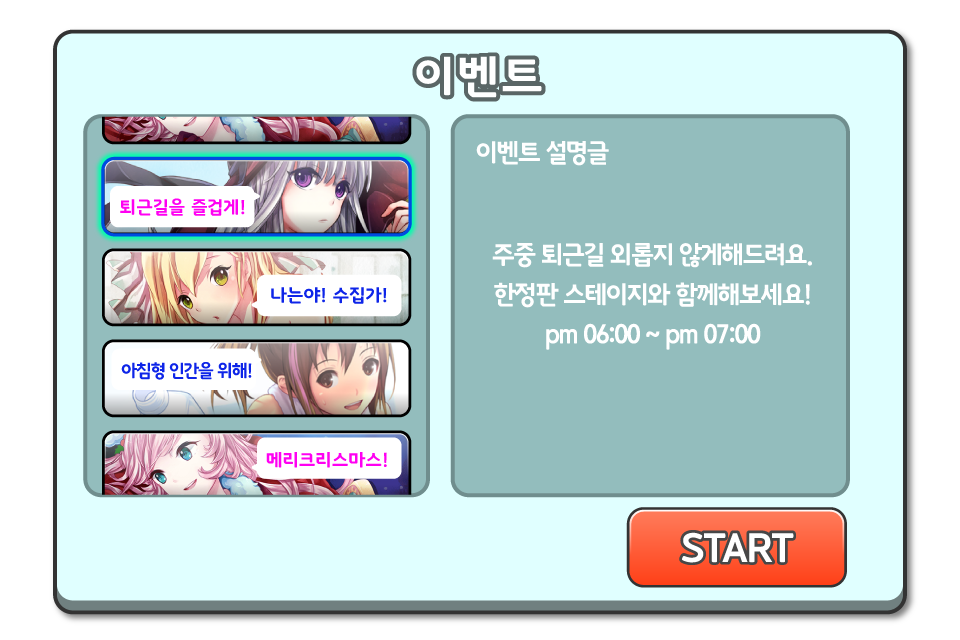
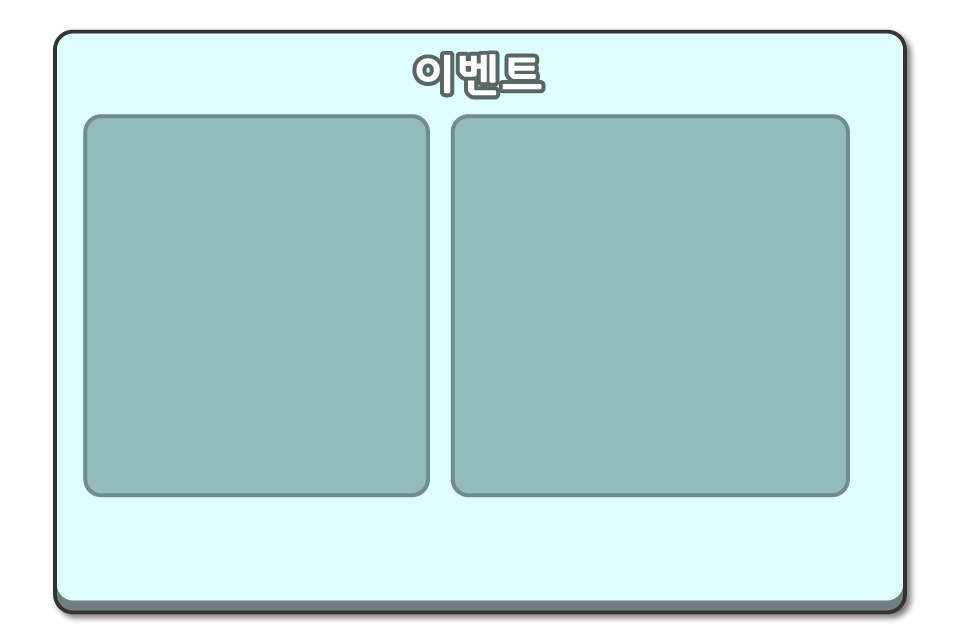
event stage 생성

diff --git a/Classes/EventPopup.h b/Classes/EventPopup.h
@@ -10,6 +10,9 @@
 #define __DGproto__EventPopup__
 
 #include "cocos2d.h"
+#include "ServerDataSave.h"
+#include "StageImgLoader.h"
+#include "StageInfoDown.h"
 
 USING_NS_CC;
 using namespace std;
@@ -17,11 +20,15 @@ using namespace std;
 enum EventPopupZorder{
 	kEP_Z_gray = 1,
 	kEP_Z_back,
-	kEP_Z_content
+	kEP_Z_selected,
+	kEP_Z_content,
+	kEP_Z_popup
 };
 
 enum EventPopupMenuTag{
-	kEP_MT_close = 1
+	kEP_MT_close = 1,
+	kEP_MT_start,
+	kEP_MT_eventStageBase = 10000
 };
 
 class EventPopup : public CCLayer
@@ -40,9 +47,15 @@ private:
 	
 	int touched_number;
 	CCMenu* close_menu;
+	CCMenu* start_menu;
+	
+	CCSprite* selected_event_button;
 	
 	CCObject* target_close;
 	SEL_CallFunc delegate_close;
+	
+	int selected_event_code;
+	int el_length;
 	
 	void myInit(CCObject* t_close, SEL_CallFunc d_close)
 	{
@@ -69,9 +82,40 @@ private:
 		close_menu->setPosition(getContentPosition(kEP_MT_close));
 		addChild(close_menu, kEP_Z_content);
 		
-		is_menu_enable = true;
 		
+		CCSprite* n_start = CCSprite::create("event_start.png");
+		CCSprite* s_start = CCSprite::create("event_start.png");
+		s_start->setColor(ccGRAY);
+		
+		CCMenuItem* start_item = CCMenuItemSprite::create(n_start, s_start, this, menu_selector(EventPopup::menuAction));
+		start_item->setTag(kEP_MT_start);
+		
+		start_menu = CCMenu::createWithItem(start_item);
+		start_menu->setPosition(getContentPosition(kEP_MT_start));
+		addChild(start_menu, kEP_Z_content);
+		
+		
+		el_length = SDS_GI(kSDF_gameInfo, "event_count");
+		for(int i=0;i<el_length;i++)
+		{
+			int event_code = SDS_GI(kSDF_gameInfo, CCString::createWithFormat("event%d_code", i)->getCString());
+			CCSprite* n_event = mySIL->getLoadedImg(CCString::createWithFormat("event%d_thumbnail.png", i)->getCString());
+			CCSprite* s_event = mySIL->getLoadedImg(CCString::createWithFormat("event%d_thumbnail.png", i)->getCString());
+			s_event->setColor(ccGRAY);
+			
+			CCMenuItem* event_item = CCMenuItemSprite::create(n_event, s_event, this, menu_selector(EventPopup::menuAction));
+			event_item->setTag(event_code);
+			
+			CCMenu* event_menu = CCMenu::createWithItem(event_item);
+			event_menu->setPosition(getContentPosition(event_code));
+			addChild(event_menu, kEP_Z_content, kEP_MT_eventStageBase + i);
+		}
+		
+		is_menu_enable = true;
+		selected_event_code = 0;
 		touched_number = 0;
+		
+		selected_event_button = NULL;
 		
 		setTouchEnabled(true);
 	}
@@ -80,9 +124,16 @@ private:
 	{
 		CCPoint return_value;
 		
-		if(t_tag == kEP_MT_close)	return_value = ccp(430,280);
+		if(t_tag == kEP_MT_close)						return_value = ccp(430,280);
+		else if(t_tag == kEP_MT_start)					return_value = ccp(385,48);
+		else if(t_tag >= kEP_MT_eventStageBase)			return_value = ccp(128,234 - (t_tag - kEP_MT_eventStageBase - 1)*45);
 		
 		return return_value;
+	}
+	
+	void startCancel()
+	{
+		is_menu_enable = true;
 	}
 	
 	void menuAction(CCObject* sender)
@@ -97,29 +148,89 @@ private:
 		if(tag == kEP_MT_close)
 		{
 			(target_close->*delegate_close)();
+			removeFromParent();
 		}
-		
-		removeFromParent();
+		else if(tag == kEP_MT_start)
+		{
+			if(selected_event_code == 0)
+			{
+				is_menu_enable = true;
+			}
+			else
+			{
+				mySD->setSilType(selected_event_code);
+				
+				StageInfoDown* t_sid = StageInfoDown::create(this, callfunc_selector(EventPopup::startCancel));
+				addChild(t_sid, kEP_Z_popup);
+			}
+		}
+		else if(tag >= kEP_MT_eventStageBase)
+		{
+			if(tag != selected_event_code)
+			{
+				selected_event_code = tag;
+				
+				if(!selected_event_button)
+				{
+					selected_event_button = CCSprite::create("event_button_selected.png");
+					addChild(selected_event_button, kEP_Z_selected);
+				}
+				selected_event_button->setPosition(getContentPosition(selected_event_code));
+				is_menu_enable = true;
+			}
+			else
+			{
+				mySD->setSilType(selected_event_code);
+				
+				StageInfoDown* t_sid = StageInfoDown::create(this, callfunc_selector(EventPopup::startCancel));
+				addChild(t_sid, kEP_Z_popup);
+			}
+		}
 	}
 	
 	virtual bool ccTouchBegan(CCTouch *pTouch, CCEvent *pEvent)
 	{
 		if(touched_number != 0)		return true;
 		if(close_menu->ccTouchBegan(pTouch, pEvent))				touched_number = kEP_MT_close;
+		else if(start_menu->ccTouchBegan(pTouch, pEvent))			touched_number = kEP_MT_start;
+		else
+		{
+			for(int i=0;i<el_length && touched_number == 0;i++)
+			{
+				if(((CCMenu*)getChildByTag(kEP_MT_eventStageBase + i))->ccTouchBegan(pTouch, pEvent))		touched_number = kEP_MT_eventStageBase + i;
+			}
+		}
 		return true;
 	}
 	
 	virtual void ccTouchMoved(CCTouch *pTouch, CCEvent *pEvent)
 	{
 		if(touched_number == kEP_MT_close)							close_menu->ccTouchMoved(pTouch, pEvent);
+		else if(touched_number == kEP_MT_start)						start_menu->ccTouchMoved(pTouch, pEvent);
+		else if(touched_number != 0)
+		{
+			((CCMenu*)getChildByTag(touched_number))->ccTouchMoved(pTouch, pEvent);
+		}
 	}
     virtual void ccTouchEnded(CCTouch *pTouch, CCEvent *pEvent)
 	{
 		if(touched_number == kEP_MT_close){			close_menu->ccTouchEnded(pTouch, pEvent);		touched_number = 0;	}
+		else if(touched_number == kEP_MT_start){	start_menu->ccTouchEnded(pTouch, pEvent);		touched_number = 0;	}
+		else if(touched_number != 0)
+		{
+			((CCMenu*)getChildByTag(touched_number))->ccTouchEnded(pTouch, pEvent);
+			touched_number = 0;
+		}
 	}
     virtual void ccTouchCancelled(CCTouch *pTouch, CCEvent *pEvent)
 	{
 		if(touched_number == kEP_MT_close){			close_menu->ccTouchCancelled(pTouch, pEvent);		touched_number = 0;	}
+		else if(touched_number == kEP_MT_start){	start_menu->ccTouchCancelled(pTouch, pEvent);		touched_number = 0;	}
+		else if(touched_number != 0)
+		{
+			((CCMenu*)getChildByTag(touched_number))->ccTouchCancelled(pTouch, pEvent);
+			touched_number = 0;
+		}
 	}
 	
 	virtual void registerWithTouchDispatcher()

diff --git a/Classes/StageListDown.cpp b/Classes/StageListDown.cpp
@@ -17,12 +17,12 @@ void StageListDown::resultGetStageList(Json::Value result_data)
 		{
 			state_ment->setString("스테이지 목록을 받아오는ing...");
 			
-			int loop_cnt = result_data["count"].asInt();
-			SDS_SI(kSDF_gameInfo, "stage_count", loop_cnt);
-			
 			int top_y, bottom_y, left_x, right_x;
 			
 			Json::Value stage_list = result_data["list"];
+			int loop_cnt = stage_list.size();
+			SDS_SI(kSDF_gameInfo, "stage_count", loop_cnt);
+			
 			for(int i=0;i<loop_cnt;i++)
 			{
 				int stage_number = stage_list[i]["no"].asInt();
@@ -126,6 +126,28 @@ void StageListDown::resultGetStageList(Json::Value result_data)
 			SDS_SI(kSDF_gameInfo, "right_x", right_x);
 			SDS_SI(kSDF_gameInfo, "top_y", top_y);
 			SDS_SI(kSDF_gameInfo, "bottom_y", bottom_y);
+			
+			Json::Value event_list = result_data["eventList"];
+			int el_length = event_list.size();
+			SDS_SI(kSDF_gameInfo, "event_count", el_length);
+			for(int i=0;i<el_length;i++)
+			{
+				int event_code = event_list[i]["no"].asInt();
+				SDS_SI(kSDF_gameInfo, CCSTR_CWF("event%d_code", i)->getCString(), event_code);
+				Json::Value thumbnail = event_list[i]["thumbnail"];
+				SDS_SI(kSDF_gameInfo, CCSTR_CWF("event%d_thumbnail_size", i)->getCString(), thumbnail["size"].asInt());
+				if(SDS_GS(kSDF_gameInfo, CCSTR_CWF("event%d_thumbnail_image", i)->getCString()) != thumbnail["image"].asString())
+				{
+					// check, after download ----------
+					DownloadFile t_df;
+					t_df.size = thumbnail["size"].asInt();
+					t_df.img = thumbnail["image"].asCString();
+					t_df.filename = CCSTR_CWF("event%d_thumbnail.png", i)->getCString();
+					t_df.key = CCSTR_CWF("event%d_thumbnail_image", i)->getCString();
+					df_list.push_back(t_df);
+					// ================================
+				}
+			}
 			
 			if(df_list.size() > 0) // need download
 			{

diff --git a/Classes/StageInfoDown.h b/Classes/StageInfoDown.h
@@ -96,10 +96,22 @@ private:
 	
 	void startGetStageInfo()
 	{
-		Json::Value param;
-		param["no"] = mySD->getSilType();
-		param["version"] = SDS_GI(kSDF_stageInfo, mySD->getSilType(), "version");
-		graphdog->command("getstageinfo", param, json_selector(this, StageInfoDown::resultGetStageInfo));
+		int stage_number = mySD->getSilType();
+		
+		if(stage_number < 10000)
+		{
+			Json::Value param;
+			param["no"] = stage_number;
+			param["version"] = SDS_GI(kSDF_stageInfo, stage_number, "version");
+			graphdog->command("getstageinfo", param, json_selector(this, StageInfoDown::resultGetStageInfo));
+		}
+		else // event stage
+		{
+			Json::Value param;
+			param["no"] = stage_number;
+			param["version"] = SDS_GI(kSDF_stageInfo, stage_number, "version");
+			graphdog->command("geteventstageinfo", param, json_selector(this, StageInfoDown::resultGetStageInfo));
+		}
 	}
 	
 	void resultGetStageInfo(Json::Value result_data);

diff --git a/Classes/MaingameScene.h b/Classes/MaingameScene.h
@@ -306,11 +306,14 @@ private:
 		
 		if(mySGD->getIsCleared())
 		{
-			int cleared_number = myDSH->getIntegerForKey(kDSH_Key_theme_int1_clearednumber, 1);
-			
-			if(mySD->getSilType() > cleared_number)
+			if(mySD->getSilType() < 10000)
 			{
-				myDSH->setIntegerForKey(kDSH_Key_theme_int1_clearednumber, 1, mySD->getSilType());
+				int cleared_number = myDSH->getIntegerForKey(kDSH_Key_theme_int1_clearednumber, 1);
+				
+				if(mySD->getSilType() > cleared_number)
+				{
+					myDSH->setIntegerForKey(kDSH_Key_theme_int1_clearednumber, 1, mySD->getSilType());
+				}
 			}
 			
 			AudioEngine::sharedInstance()->playEffect("sound_clear_bgm.mp3", false);

diff --git a/Classes/DataStorageHub.h b/Classes/DataStorageHub.h
@@ -67,7 +67,8 @@ typedef enum t_DSH_Key{
 	kDSH_Key_cardTakeCnt,
 	kDSH_Key_cardSortType,
 	kDSH_Key_lastSelectedStage,
-	kDSH_Key_isPassCoupon_int1
+	kDSH_Key_isPassCoupon_int1,
+	kDSH_Key_uiType
 }DSH_Key;
 
 #define myDSH DataStorageHub::sharedInstance()
@@ -247,6 +248,7 @@ private:
 		else if(t_name == kDSH_Key_cardSortType)						return_value = "cst";
 		else if(t_name == kDSH_Key_lastSelectedStage)					return_value = "lss";
 		else if(t_name == kDSH_Key_isPassCoupon_int1)					return_value = "ipcp%d";
+		else if(t_name == kDSH_Key_uiType)								return_value = "uitype";
 		
 		return return_value;
 	}

diff --git a/Classes/GameData.cpp b/Classes/GameData.cpp
@@ -396,6 +396,8 @@ void GameData::initUserSelectedStartRect( IntRect t_rect )
 
 void GameData::setUItype( GAMESCREEN_TYPE t_type )
 {
+	if(t_type != myDSH->getIntegerForKey(kDSH_Key_uiType))
+		myDSH->setIntegerForKey(kDSH_Key_uiType, t_type);
 	gamescreen_type = t_type;
 
 	if(gamescreen_type != kGT_full)
@@ -407,7 +409,7 @@ void GameData::setUItype( GAMESCREEN_TYPE t_type )
 void GameData::myInit()
 {
 	boarder_value = 7.f;
-	setUItype(kGT_leftUI);
+	setUItype( GAMESCREEN_TYPE( myDSH->getIntegerForKey(kDSH_Key_uiType) ) );
 
 	// init map
 	for(int i=mapWidthOutlineBegin;i<mapWidthOutlineEnd;i++)

diff --git a/Classes/StageInfoDown.cpp b/Classes/StageInfoDown.cpp
@@ -433,5 +433,5 @@ void StageInfoDown::ccTouchCancelled(cocos2d::CCTouch *pTouch, cocos2d::CCEvent 
 
 void StageInfoDown::registerWithTouchDispatcher()
 {
-	CCDirector::sharedDirector()->getTouchDispatcher()->addTargetedDelegate(this, kCCMenuHandlerPriority-1, false);
+	CCDirector::sharedDirector()->getTouchDispatcher()->addTargetedDelegate(this, -180, true);
 }
